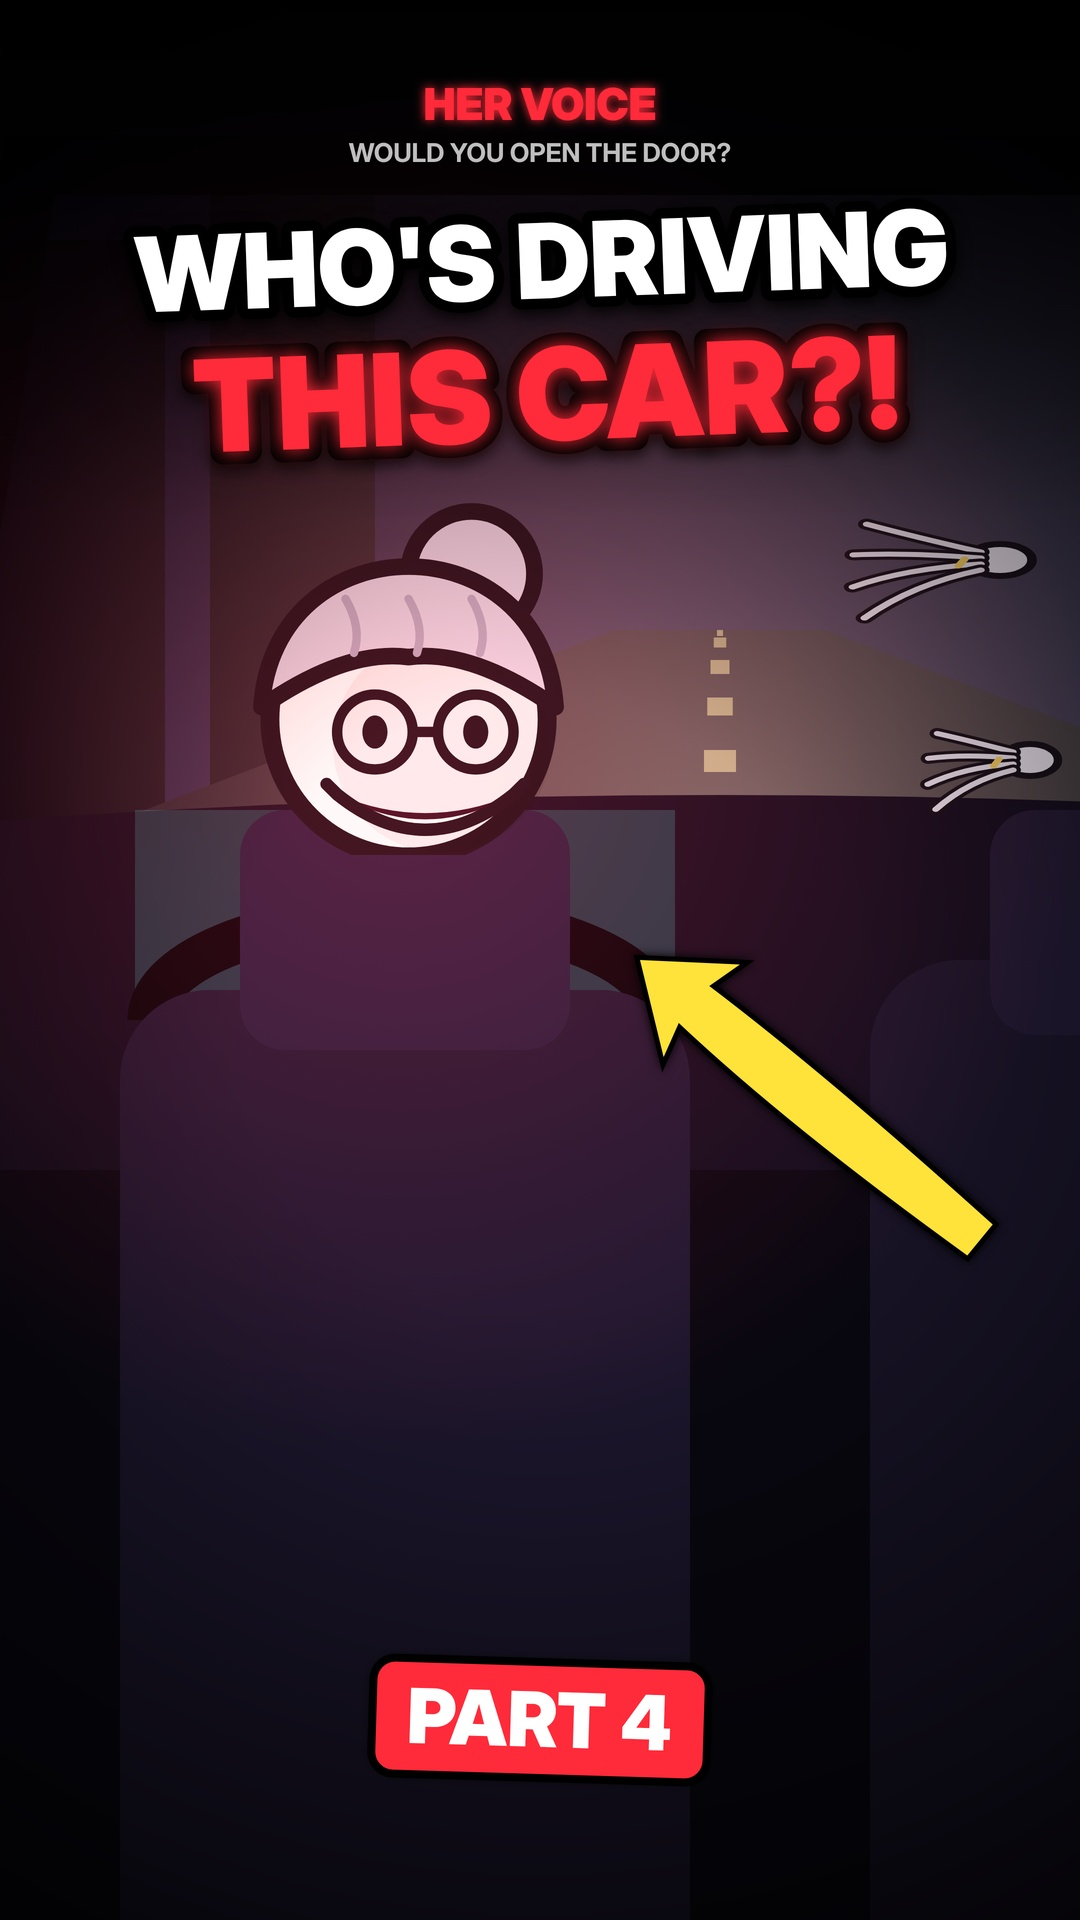
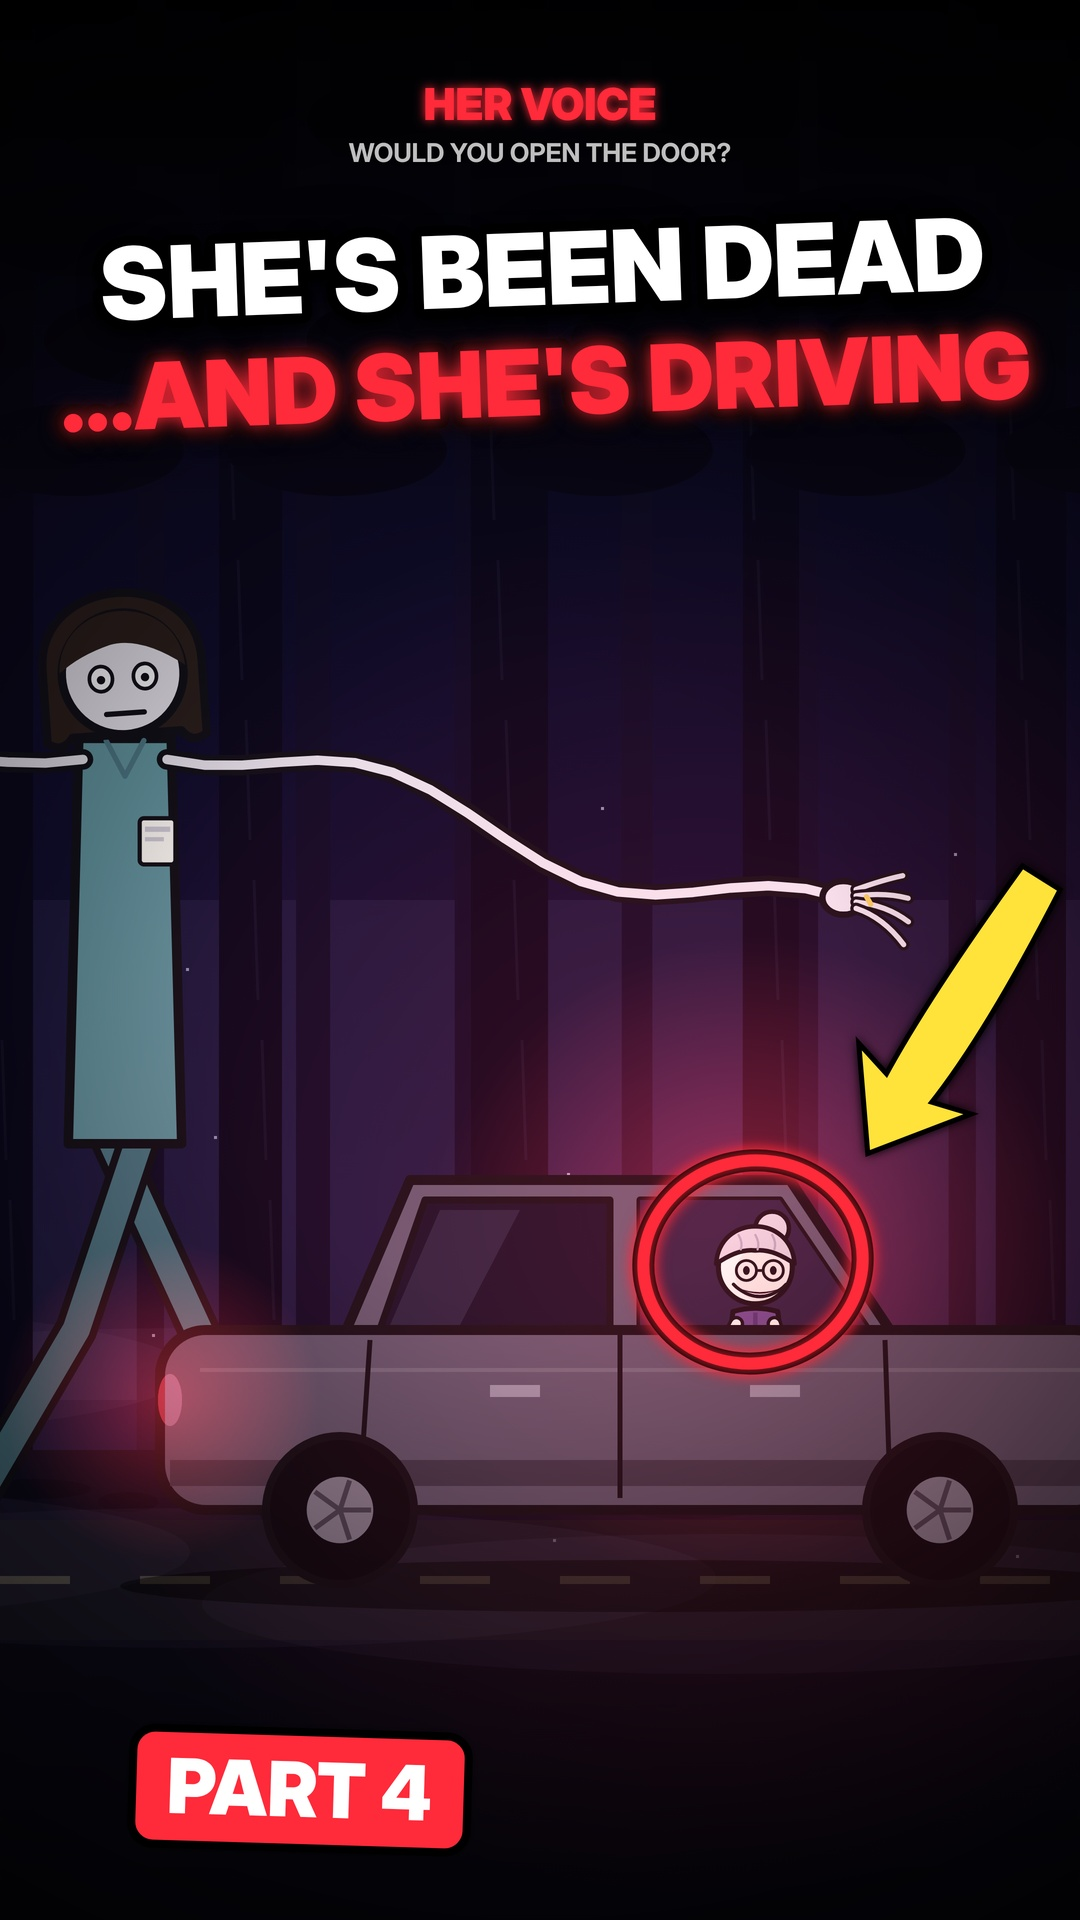
Clearer Part 4 thumbnail: dead neighbor driving, Mom chasing
Claude-Session: https://claude.ai/code/session_013waGN2ARspf4yShZssZUe5

diff --git a/youtube/horror/it-knows-her-voice/web/thumbs.html b/youtube/horror/it-knows-her-voice/web/thumbs.html
@@ -282,10 +282,11 @@ const THUMBS = {
     heroCrouch(110, 1010, 0.82, { expr: 'scared', tremble: 1 }); dog(470, 1760, 0.85, { pose: 'crouch', shake: 1, ears: 'down', look: -1 }); fallenTree(-160, 1900, 1500);
     g.restore(); grade(540, 760, '255,30,50', 0.2);
     hook([["DON'T", '#ff2a3a', 150], ['BREATHE.', '#ffffff', 130]], 220); logo(); badge(3, 860, 1400); },
-  4() { T = 1.0; g.save(); cam(1.5, 420, 860); interior({ faceTurn: 1 }); g.restore();
-    g.save(); g.translate(0, 0); hand(g, 1000, 560, -1.6, 1, 0.4); hand(g, 1030, 760, -1.4, 1, 1.1); g.restore();
-    grade(400, 760, '255,30,50', 0.22);
-    hook([["WHO'S DRIVING", '#ffffff', 104], ['THIS CAR?!', '#ff2a3a', 128]], 210); arrow(980, 1240, 640, 960); logo(); badge(4, 540, 1720); },
+  4() { T = 1.0; g.save(); sky(); forest(6600, { branches: false }); road(1580); fog(1530);
+    mom(-190, 1580 - 975 * 1.05, 1.05, { tall: 1.85, reach: 0.75, face: 'blank', run: 0.9 });
+    add(() => { const rg = g.createRadialGradient(753, 1266, 10, 753, 1266, 330); rg.addColorStop(0, 'rgba(255,60,70,0.35)'); rg.addColorStop(1, 'rgba(255,60,70,0)'); g.fillStyle = rg; g.fillRect(300, 800, 800, 800); });
+    carSide(640, 1580, 1.0, { win: 1, hale: true, smile: 'toowide', lights: 1 }); g.restore(); grade(700, 1200, '255,30,50', 0.18);
+    hook([["SHE'S BEEN DEAD", '#ffffff', 100], ["...AND SHE'S DRIVING", '#ff2a3a', 104]], 220); ring(753, 1262, 110); arrow(1040, 880, 870, 1150); logo(); badge(4, 300, 1790); },
 };
 window.renderThumb = (n, k = 2) => { cv.width = W * k; cv.height = H * k; g.setTransform(k, 0, 0, k, 0, 0); g.clearRect(0, 0, W, H); THUMBS[n](); return true; };
 document.fonts.load('900 92px "Inter Display"').then(() => { window.ready = true; });
